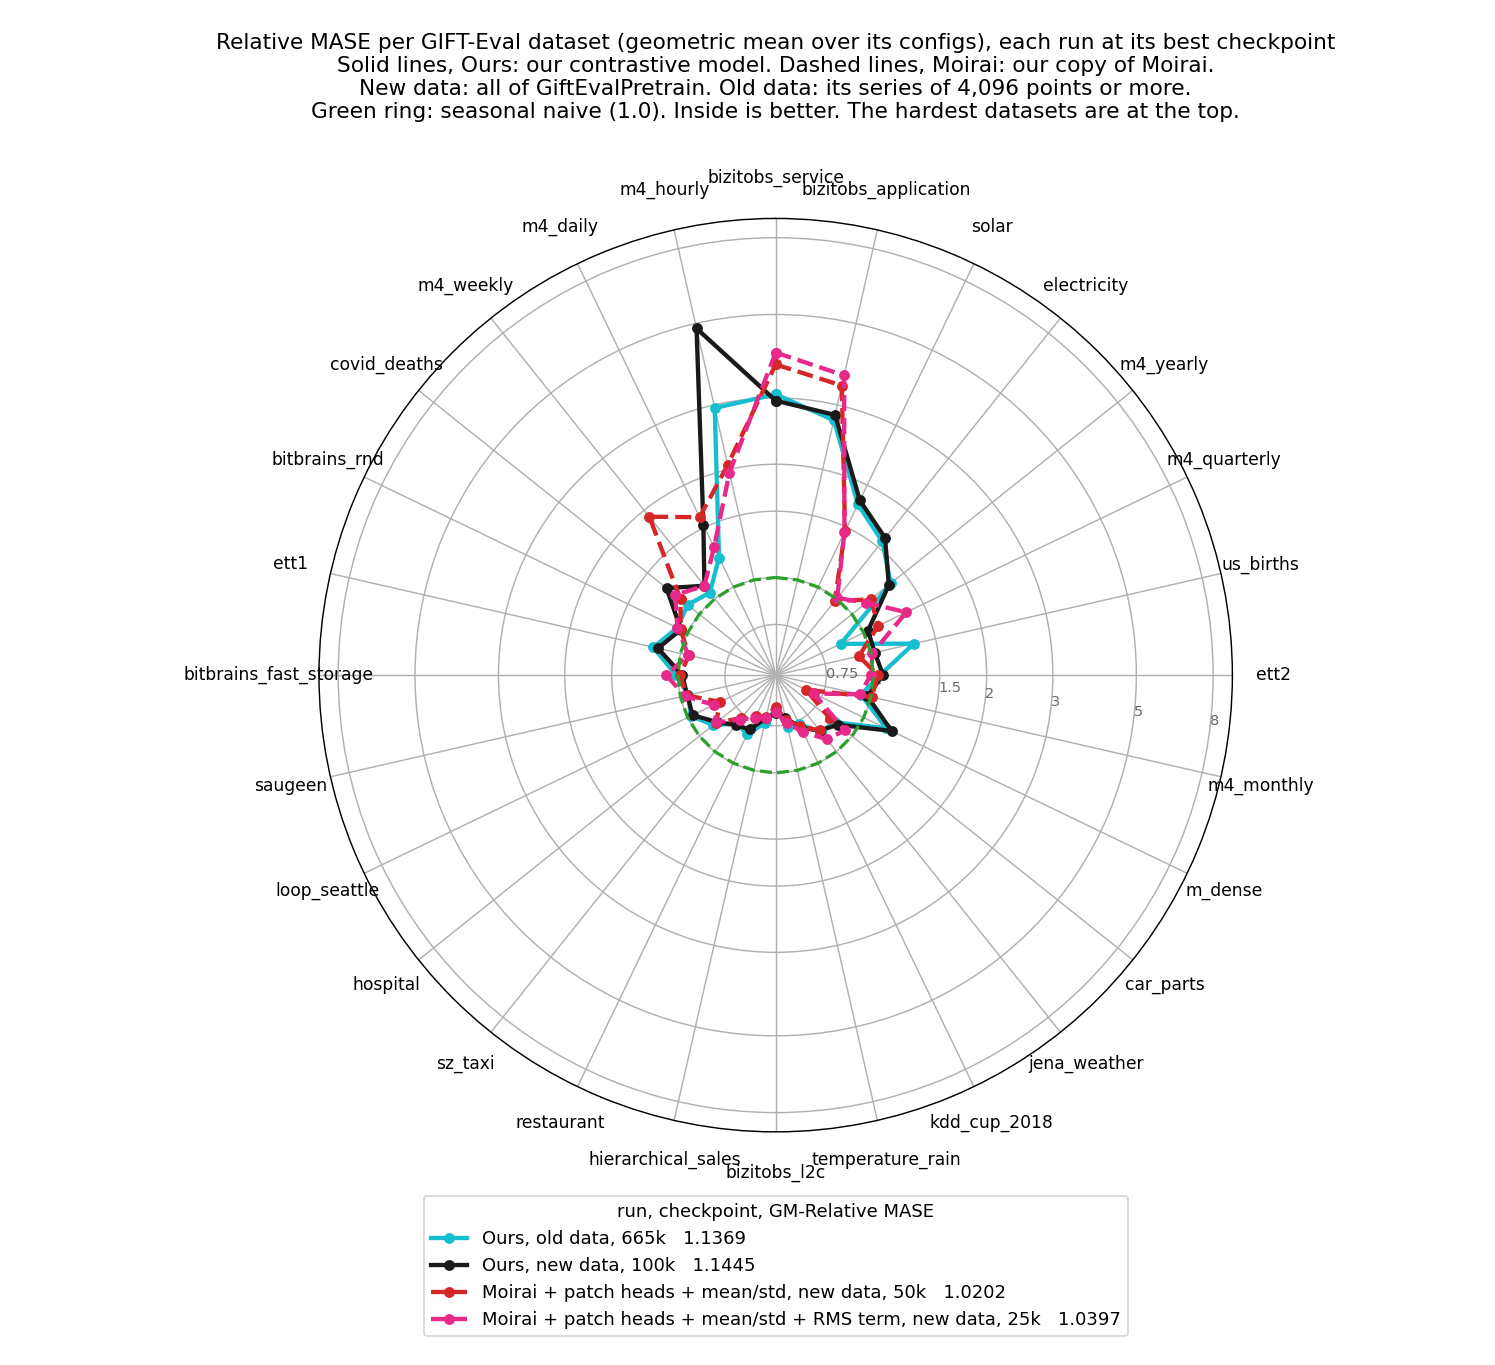
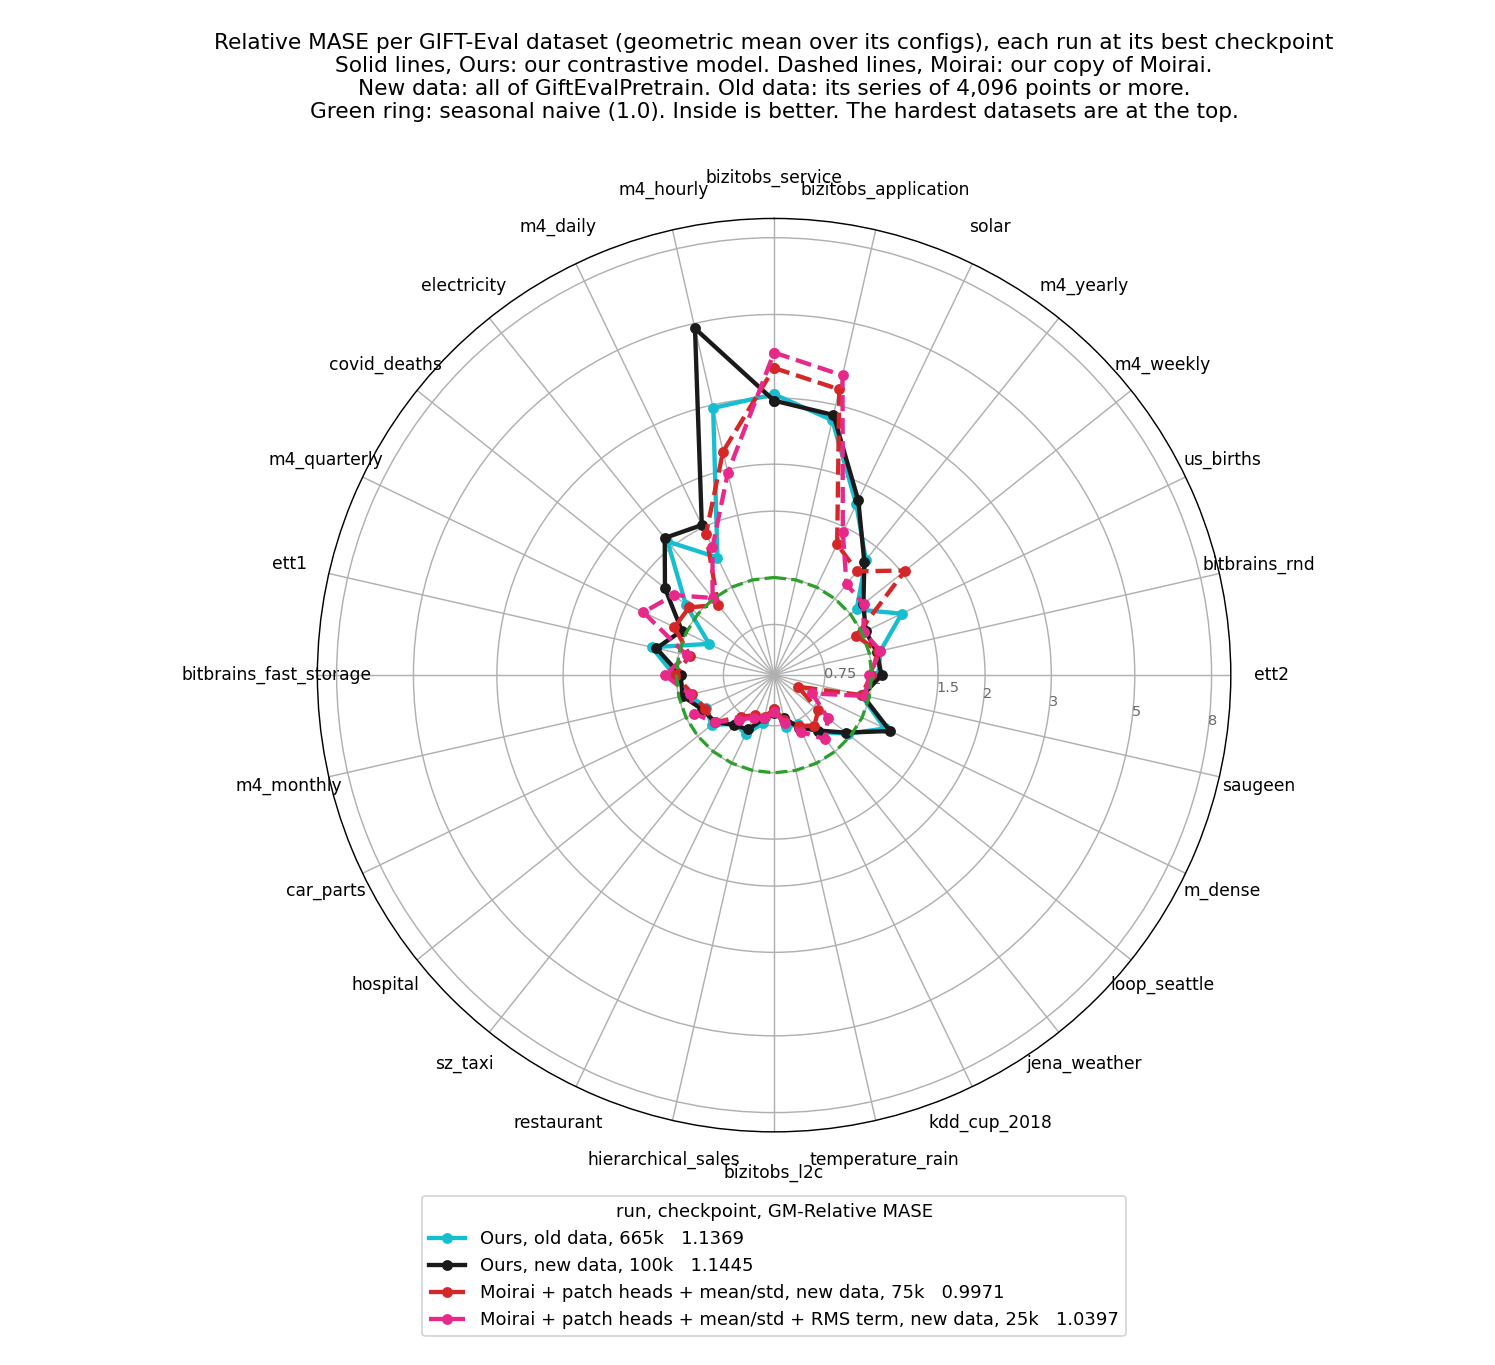
exp(#421): #421f scores 0.9971 at 75k, native: below 1.0
The curves reach down to 0.97.

diff --git a/reports/2026-09-06_moirai_small_size/scripts/plot_gm_rates.py b/reports/2026-09-06_moirai_small_size/scripts/plot_gm_rates.py
@@ -45,7 +45,7 @@ XSCALE = {"cf415_moirai": 4, "cf415_moirai_native": 4, "cf419_moirai_native": 4,
 # Where the last score of a line prints, so two lines that end together part.
 END_LABEL_OFFSET = {P + "_lr100x": (9, 4), P + "_cos200k": (9, -12)}
 BEST, BAND, PROJECT_BEST = 1.1369, 0.008, 1.0651
-YMIN, YMAX = 0.99, 1.32
+YMIN, YMAX = 0.97, 1.32
 
 
 def load_points():
